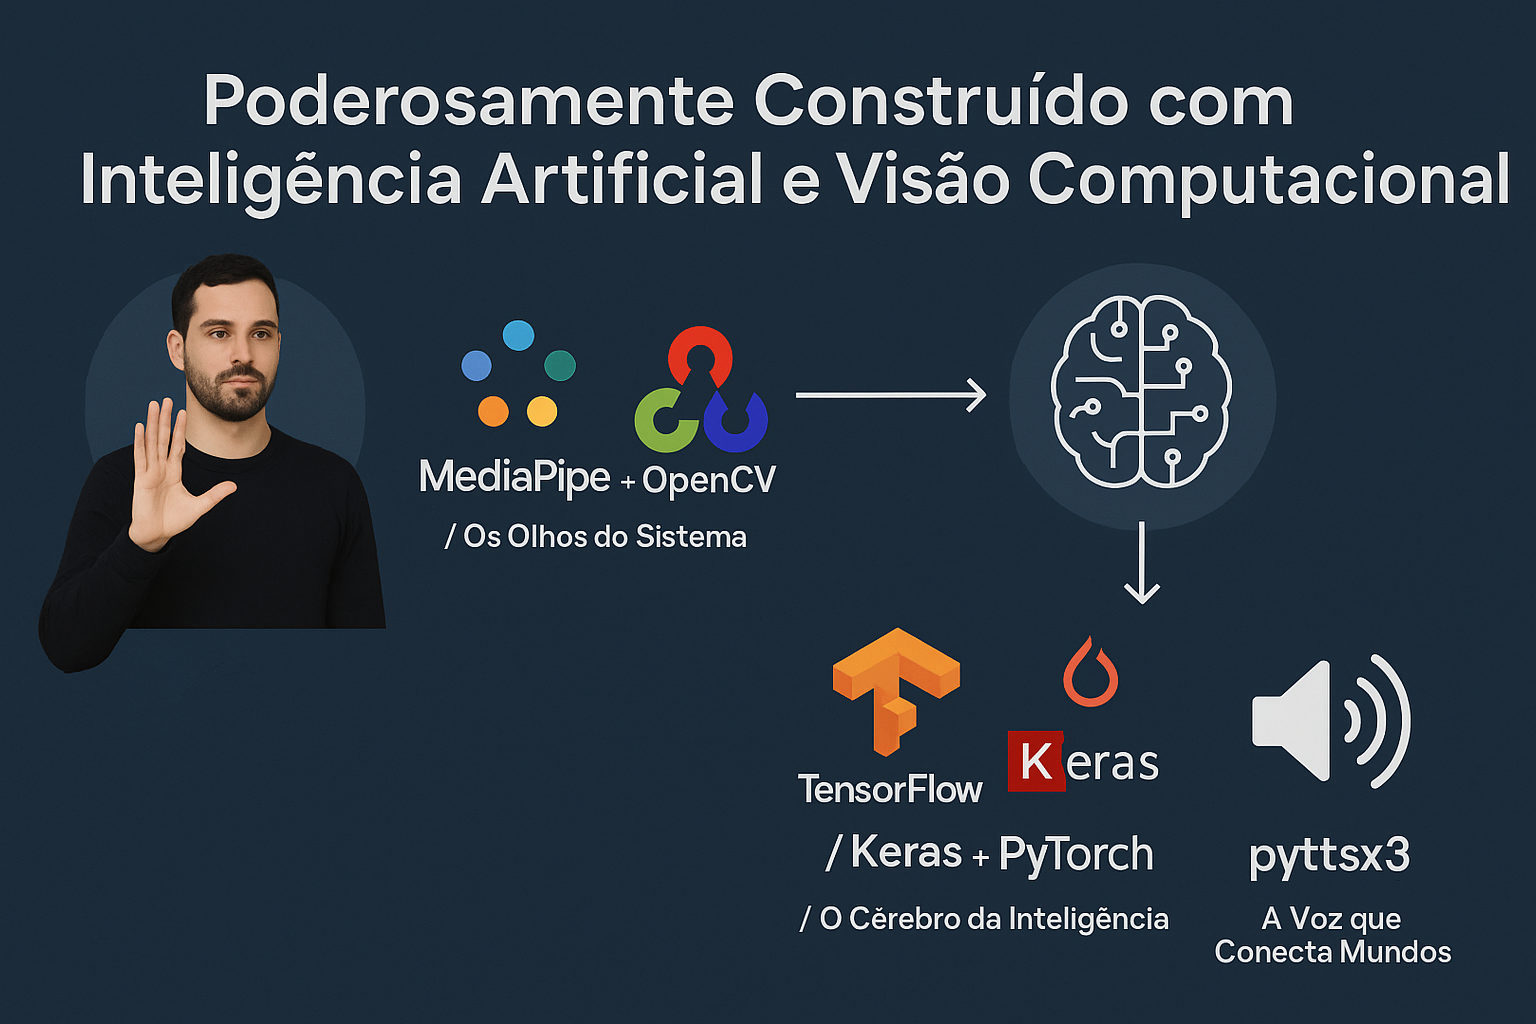
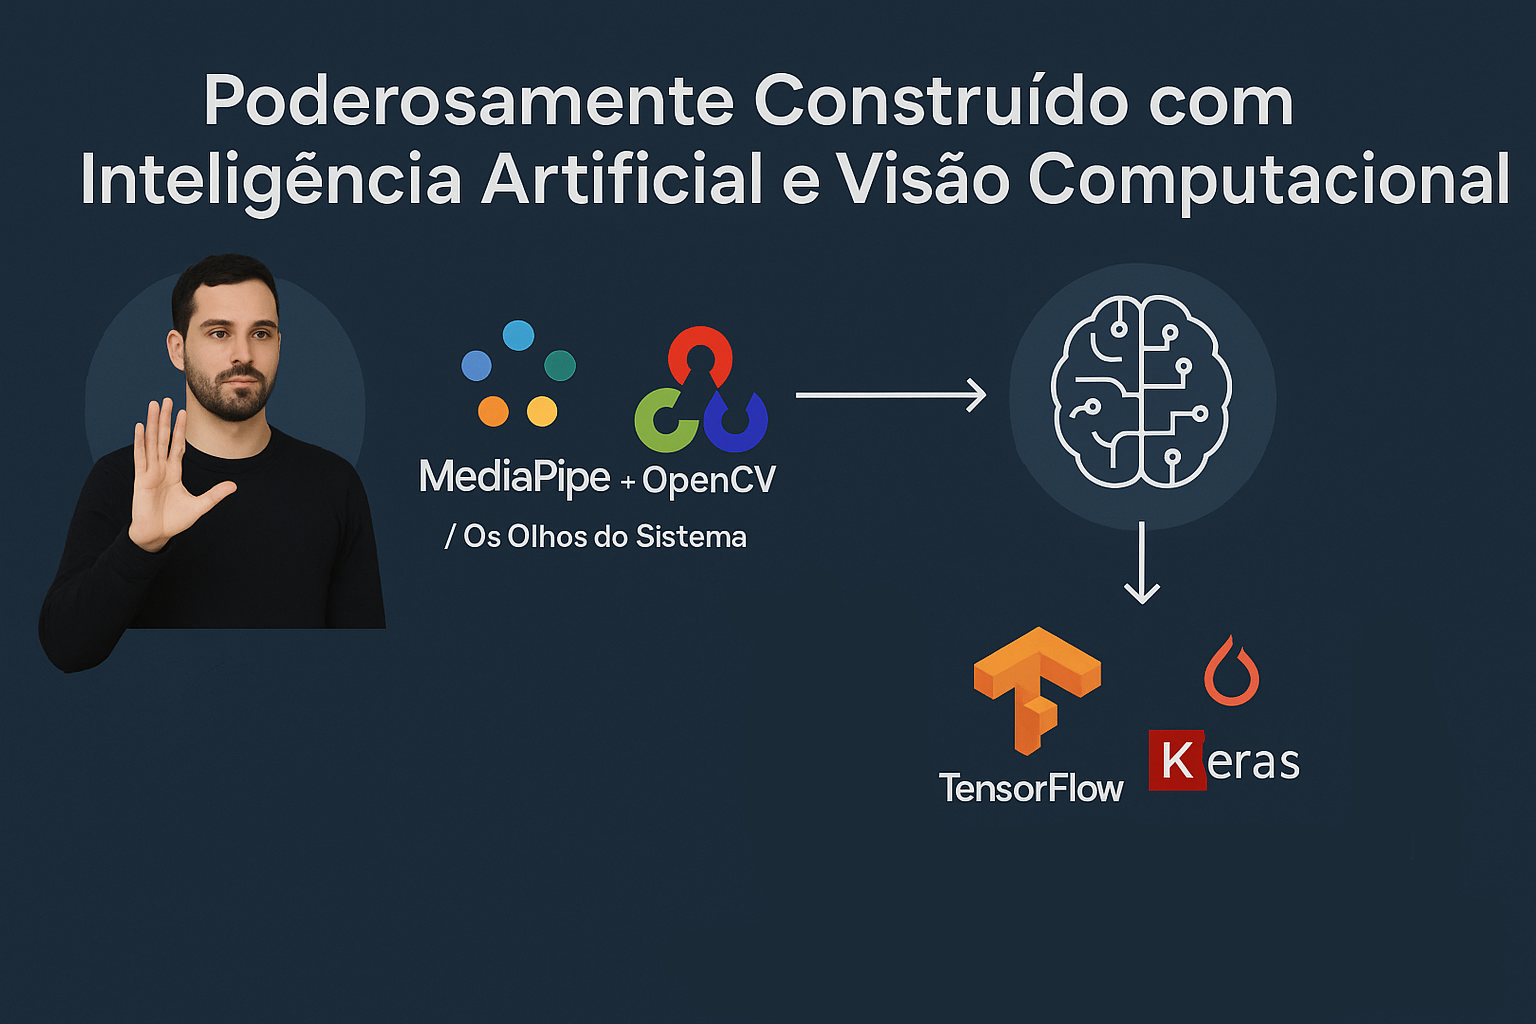
tecnologias não utilizadas corrigidas, imagem corrigida

Changed region(s): [[0.5, 0.5938, 0.9375, 0.7812], [0.5312, 0.8125, 0.7812, 0.9062], [0.7812, 0.8125, 0.9375, 0.9375]]

diff --git a/index.html b/index.html
@@ -155,69 +155,6 @@
                 </div>
             </div>
         </section>
-        <!-- Sobre-->
-        <!-- <section class="page-section" id="about">
-            <div class="container">
-                <div class="text-center">
-                    <h2 class="section-heading text-uppercase">About</h2>
-                    <h3 class="section-subheading text-muted">Lorem ipsum dolor sit amet consectetur.</h3>
-                </div>
-                <ul class="timeline">
-                    <li>
-                        <div class="timeline-image"><img class="rounded-circle img-fluid" src="assets/img/about/1.jpg" alt="..." /></div>
-                        <div class="timeline-panel">
-                            <div class="timeline-heading">
-                                <h4>2009-2011</h4>
-                                <h4 class="subheading">Our Humble Beginnings</h4>
-                            </div>
-                            <div class="timeline-body"><p class="text-muted">Lorem ipsum dolor sit amet, consectetur adipisicing elit. Sunt ut voluptatum eius sapiente, totam reiciendis temporibus qui quibusdam, recusandae sit vero unde, sed, incidunt et ea quo dolore laudantium consectetur!</p></div>
-                        </div>
-                    </li>
-                    <li class="timeline-inverted">
-                        <div class="timeline-image"><img class="rounded-circle img-fluid" src="assets/img/about/2.jpg" alt="..." /></div>
-                        <div class="timeline-panel">
-                            <div class="timeline-heading">
-                                <h4>March 2011</h4>
-                                <h4 class="subheading">An Agency is Born</h4>
-                            </div>
-                            <div class="timeline-body"><p class="text-muted">Lorem ipsum dolor sit amet, consectetur adipisicing elit. Sunt ut voluptatum eius sapiente, totam reiciendis temporibus qui quibusdam, recusandae sit vero unde, sed, incidunt et ea quo dolore laudantium consectetur!</p></div>
-                        </div>
-                    </li>
-                    <li>
-                        <div class="timeline-image"><img class="rounded-circle img-fluid" src="assets/img/about/3.jpg" alt="..." /></div>
-                        <div class="timeline-panel">
-                            <div class="timeline-heading">
-                                <h4>December 2015</h4>
-                                <h4 class="subheading">Transition to Full Service</h4>
-                            </div>
-                            <div class="timeline-body"><p class="text-muted">Lorem ipsum dolor sit amet, consectetur adipisicing elit. Sunt ut voluptatum eius sapiente, totam reiciendis temporibus qui quibusdam, recusandae sit vero unde, sed, incidunt et ea quo dolore laudantium consectetur!</p></div>
-                        </div>
-                    </li>
-                    <li class="timeline-inverted">
-                        <div class="timeline-image"><img class="rounded-circle img-fluid" src="assets/img/about/4.jpg" alt="..." /></div>
-                        <div class="timeline-panel">
-                            <div class="timeline-heading">
-                                <h4>July 2020</h4>
-                                <h4 class="subheading">Phase Two Expansion</h4>
-                            </div>
-                            <div class="timeline-body"><p class="text-muted">Lorem ipsum dolor sit amet, consectetur adipisicing elit. Sunt ut voluptatum eius sapiente, totam reiciendis temporibus qui quibusdam, recusandae sit vero unde, sed, incidunt et ea quo dolore laudantium consectetur!</p></div>
-                        </div>
-                    </li>
-                    <li class="timeline-inverted">
-                        <div class="timeline-image">
-                            <h4>
-                                Be Part
-                                <br />
-                                Of Our
-                                <br />
-                                Story!
-                            </h4>
-                        </div>
-                    </li>
-                </ul>
-            </div>
-        </section> -->
-        <!-- Team-->
         <section class="page-section bg-light" id="team">
             <div class="container">
                 <div class="text-center">
@@ -382,25 +319,13 @@
                                                <br>
                                         </li>
                                         <li>
-                                            <strong>🧠 TensorFlow/Keras + PyTorch: O Cérebro da Inteligência</strong>
+                                            <strong>🧠 TensorFlow/Keras: O Cérebro da Inteligência</strong>
                                             <br>
                                             <br>    
                                         </li>
                                         Nosso modelo de reconhecimento é treinado com <strong>TensorFlow/Keras</strong> , a plataforma de deep learning mais confiável do mercado,
-                                         usada por gigantes como <strong>NASA e Google</strong> . Para gestos complexos, empregamos <strong>PyTorch</strong> , framework preferido por pesquisadores de IA, 
-                                         garantindo que o aprendizado da máquina seja rápido, adaptável e escalável. O resultado? 
-                                         Um sistema que aprende continuamente e se torna mais preciso a <strong>cada</strong>  uso.
-                                        <br>
-                                        <br>
-                                        <li>
-                                            <strong>🗣 pyttsx3: A Voz que Conecta Mundos
-                                                A tradução não para no texto! Com pyttsx3, transformamos os sinais de Libras em voz natural e clara, 
-                                                permitindo que pessoas ouvintes compreendam a mensagem sem barreiras. É a ponte definitiva entre duas formas de comunicação.</strong>
-                                            <br>
-                                            <br>    
-                                        </li>
-
-
+                                         usada por gigantes como <strong>NASA e Google</strong>.
+                                    
                                     </ul>
                                     <button class="btn btn-primary btn-xl text-uppercase" data-bs-dismiss="modal" type="button">
                                         <i class="fas fa-xmark me-1"></i>
